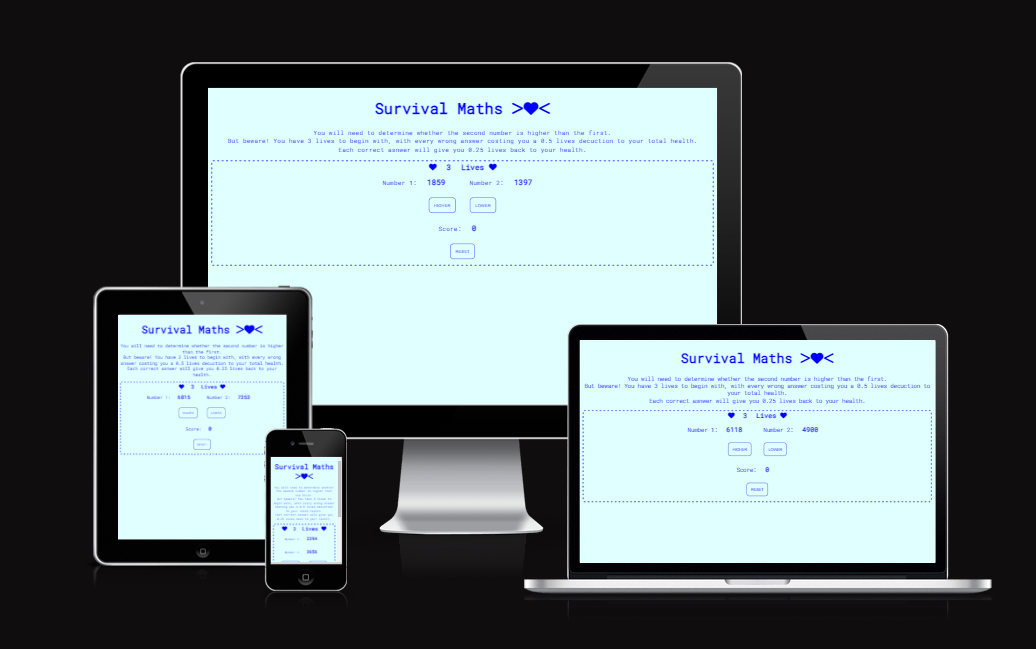
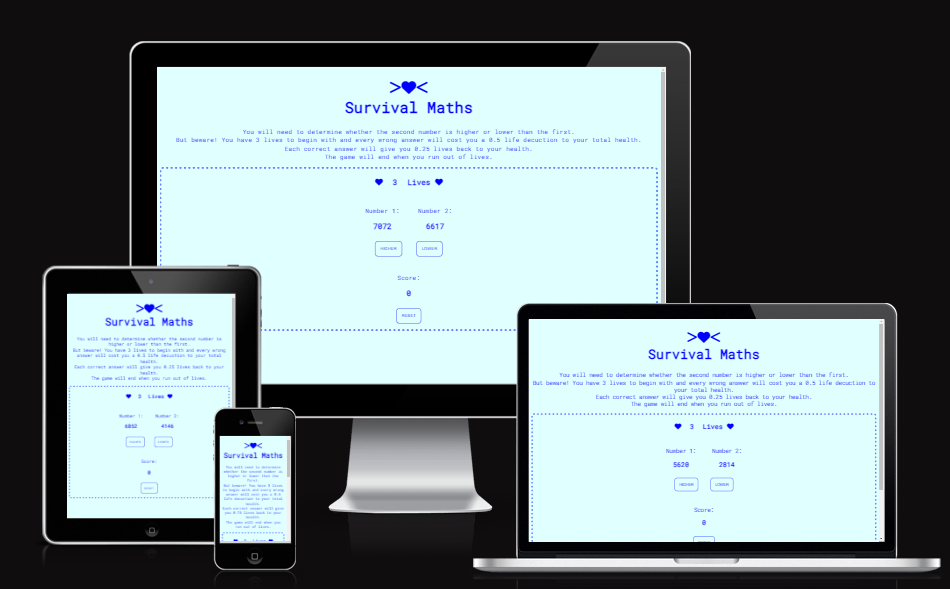
Fix span visibility error in smaller screen sizes

Changed region(s): [[0.0305, 0.0611, 1.0, 0.9779], [0.4274, 0.5195, 0.4579, 0.5501]]

diff --git a/index.html b/index.html
@@ -16,7 +16,7 @@
     
     <!--Heading and description of the game-->
     <h1 class="heading"><i class="fa-solid fa-greater-than"></i><i class="fa-solid fa-heart "></i><i class="fa-solid fa-less-than"></i><br>Survival Maths</h1>
-    <p>You will need to determine whether the second number is higher or lower than the first. <br>But beware! You have 3 lives to begin with and every wrong answer will cost you a 0.5 life decuction to your total health.<br>Each correct answer will give you 0.25 lives back to your health.<br>The game will end when you run out of lives.</p>
+    <p>You will need to determine whether the second number is higher or lower than the first. <br>But beware! You have 3 lives to begin with and every wrong answer will cost you a 0.5 life deduction to your total health.<br>Each correct answer will give you 0.25 lives back to your health.<br>The game will end when you run out of lives.</p>
 
     <div class="container">
 

diff --git a/assets/css/style.css b/assets/css/style.css
@@ -77,7 +77,6 @@ button {
         padding: 1.75rem;
         font-weight: 600;
         font-size: 1.25rem;
-        visibility: visible;
     }
 }
 
@@ -99,7 +98,6 @@ button {
         padding: 1.5rem;
         font-weight: 600;
         font-size: 1rem;
-        visibility: visible;
     }
 }
 

diff --git a/README.md b/README.md
@@ -1,19 +1,16 @@
 <h1>Survival Maths</h1>
-<hr>
 Survival Maths is a maths game that requires the user to choose whether the second number generated to the screen in higher or lower than the first. The user initially has 3 lives, that can be detracted from by 0.5 increments if an incorrect answer is chosen. The user has a chance to earn back lives in 0.25 increments for every correct answer chosen. The user can also keep track of their high score, which will update and save every time the top score is beaten and the game is reset. 
 <br>
 The purpose of this game is to test the user's number comprehension, in this case it is the ability to understand the relation between two random numbers. The concept of the lives is included to add an element of urgency and motivation to get the questions right because their in-game health is at risk. It prevents the user from spamming a button to achieve a high score, or make random guesses. 
 <br>
-The high score is shown to the user to foster a sense of competitiveness, so they would want to play the game again in order to top the existing high score. As a result, the increased gameplay would improve their number comprehension. 
+The high score is shown to the user to foster a sense of competitiveness, so they would want to play the game again in order to top the existing high score. As a result, the increased gameplay would improve their number comprehension. However, to prevent the game from feeling monotonous, the score limit is capped at 30 and the game will end once the user reaches this score.
 <br>
 <img src="assets/images/multi_device_mock_up.png" alt="Responsive Mockup">
 <h2>Colour Palette</h2>
-<hr>
 The colours I used were in the same colour group yet highly contrasting to make sure that the user's attention is not taken away from the game with any other distracting colour choices. I kept the number of different colours used to two so that the page did not look too busy. 
 <img src="assets/images/colour_palette.png" alt="Colour palette showing blue and light cyan">
 <br>
 <h2>Features</h2>
-<hr>
 <strong>Heading</strong>
 <br>
 I added the game's name as a heading with 3 font awesome icons as the game logo, a heart (representing the users lives) trapped between greater and less than signs.
@@ -38,7 +35,6 @@ I applied the same styling to the result area to keep the game feeling consisten
 <img src="assets/images/results.png" alt="A screenshot of the results area that highlights how the game area is now hidden">
 <br>
 <h2>Testing</h2>
-<hr>
 Testing across different browsers
 <br>
 <h2>Validator Testing</h2>
